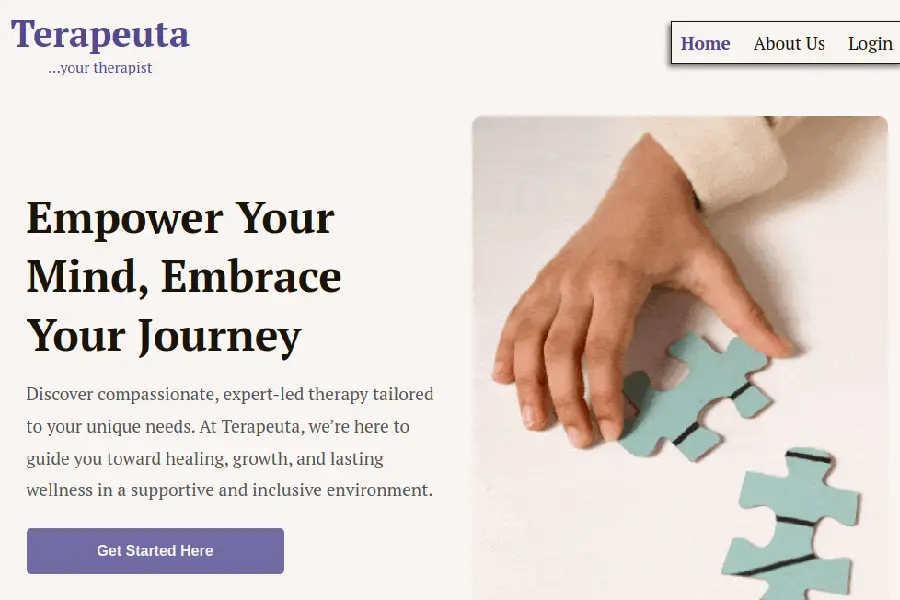
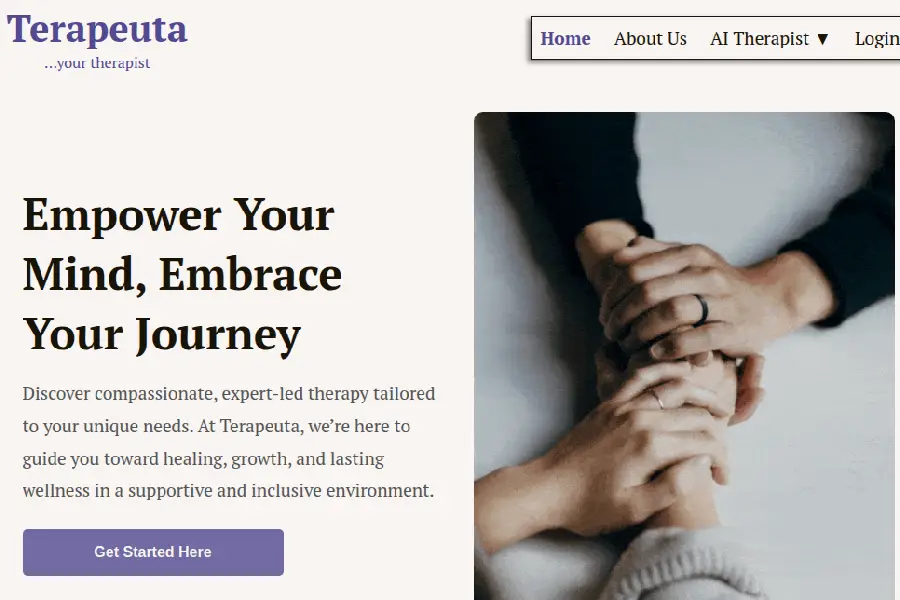
[refactor](projects): Update the projects section removed 2 projects from the section and changed the display photo for 1 project

diff --git a/projects.js b/projects.js
@@ -1,4 +1,4 @@
-const projects=[{title:"Terapeuta",category:"Frontend & BaaS",description:"Terapeuta is a web application built with React.js and Firebase, aimed at providing online therapist support and facilitating virtual therapy sessions. Users can register, log in, book sessions, and manage their profiles securely.",imageUrl:"./assets/terapeuta.webp",link:"https://terapeuta2023.netlify.app"},{title:"IP-Tracker",category:"Frontend & Backend",description:"A web application to track IP addresses and domains, providing users with key information and locations on an interactive map. Developed using HTML5, CSS, Leaflet.js, and Node.js.",imageUrl:"./assets/ip_tracker.webp",link:"https://ip-tracker-app.glitch.me/"},{title:"User-Organisation Mgt. Software",category:"Backend",description:"A Node.js backend API solution designed to handle seamless user management across multiple organizations. It is ideal for platforms that require multi-tenant user management and organization-based workflows.",imageUrl:"./assets/user_mgt_system.webp",link:"https://user-org-system.vercel.app/api-docs/"},{title:"Portfolio Hub",category:"Frontend",description:"My portfolio website. A lightweight, fully responsive site created with plain HTML, CSS, and vanilla JavaScript. It highlights my skills and portfolio, featuring custom functionalities for dynamic content and animations.",imageUrl:"./assets/personal_site.webp",link:"https://ashadesamson.me"},{title:"Workshop Maintenance App",category:"Frontend",description:"A dashboard application built with React.js, designed for real-time monitoring and analysis of equipment data to predict workshop maintenance needs and optimize asset uptime.",imageUrl:"./assets/maintenance_app.webp",link:"https://pmsf.netlify.app/"},{title:"AutosHub API",category:"Backend",description:"A Node.js backend API designed for an automobile dealership. The API supports core e-commerce features to enhance dealership operations and customer interactions.",imageUrl:"./assets/autos_hub.webp",link:"https://github.com/AshadeSamson/autosHub_backend"},{title:"Fall Predictor",category:"Frontend & ML-Backend",description:"A Python Machine Learning classification task to predict fall incidents in elderly persons taking into account reports and clinical information.",imageUrl:"./assets/fall_predictor.webp",link:"https://fallprediction.streamlit.app/"},{title:"MitXSS",category:"Extension & ML-Backend",description:"A Machine Learning classification task to detect XSS URLs deployed as a Chrome web extension to prevent attacks from malicious URLs.",imageUrl:"./assets/mit_xss.webp",link:"https://github.com/AshadeSamson/Mechanism-against-XSS"},{title:"Cryptografico",category:"Frontend UI",description:"Cryptografico is a dashboard UI design for a fictional cryptocurrency wallet holder, displaying the user balances, transactions, and account settings. Built with React.js and Vanilla JavaScript.",imageUrl:"./assets/cripto.webp",link:"https://cryptografico.netlify.app/"}],projectsContainer=document.querySelector(".project-content");projects.forEach(e=>{let t=document.createElement("div");t.classList.add("project-item"),t.innerHTML=`
+const projects=[{title:"Terapeuta",category:"Frontend, Backend, & AI",description:"An AI-powered, innovative web application built with React.js and Firebase, Terapeuta makes mental health support and therapy accessible, user-friendly, and secure. It offers online therapist support and facilitates virtual therapy sessions, ensuring a seamless and compassionate experience for users seeking mental wellness solutions.",imageUrl:"./assets/terapeuta.webp",link:"https://terapeuta2023.netlify.app/"},{title:"IP-Tracker",category:"Frontend & Backend",description:"A web application to track IP addresses and domains, providing users with key information and locations of IPs on an interactive map. Developed using HTML5, CSS, Leaflet.js, and Node.js.",imageUrl:"./assets/ip_tracker.webp",link:"https://ip-tracker-app.glitch.me/"},{title:"C-Groupify",category:"Backend",description:"A multi-tenant backend system using Express.js, enabling users to manage accounts, create or join organizations, and collaborate securely. It features structured routes for authentication, user, and organization management to ensure data isolation.",imageUrl:"./assets/user_mgt_system.webp",link:"https://user-org-system.vercel.app/api-docs/"},{title:"Portfolio Hub",category:"Frontend",description:"A lightweight, fully responsive site built with HTML5, CSS, and vanilla JavaScript. It showcases my skills and portfolio with custom functionalities for dynamic content and animations. Designed to be versatile, it can be adapted for professionals across various fields to effectively highlight their expertise.",imageUrl:"./assets/personal_site.webp",link:"https://ashadesamson.me"},{title:"AutosHub API",category:"Backend",description:"A Node.js backend API designed for an automobile dealership. The API supports core e-commerce features to enhance dealership operations and customer interactions.",imageUrl:"./assets/autos_hub.webp",link:"https://github.com/AshadeSamson/autosHub_backend"},{title:"Fall Predictor",category:"Frontend & ML-Backend",description:"A Python Machine Learning classification task to predict fall incidents in elderly persons taking into account reports of clinical information.",imageUrl:"./assets/fall_predictor.webp",link:"https://fallprediction.streamlit.app/"},{title:"MitXSS",category:"Extension, Backend, & ML",description:"A Machine Learning classification task to detect XSS URLs deployed as a Chrome web extension to prevent attacks from malicious URLs. Built with Typescript and Python",imageUrl:"./assets/mit_xss.webp",link:"https://github.com/AshadeSamson/Mechanism-against-XSS"},],projectsContainer=document.querySelector(".project-content");projects.forEach(e=>{let t=document.createElement("div");t.classList.add("project-item"),t.innerHTML=`
         <div><img class="project-photo" src="${e.imageUrl}" alt="project-snapshot" width="900" height="600" loading="lazy"></div>
         <h3 class="title-one">${e.title}</h3>
         <p class="text-small category">${e.category}</p>
